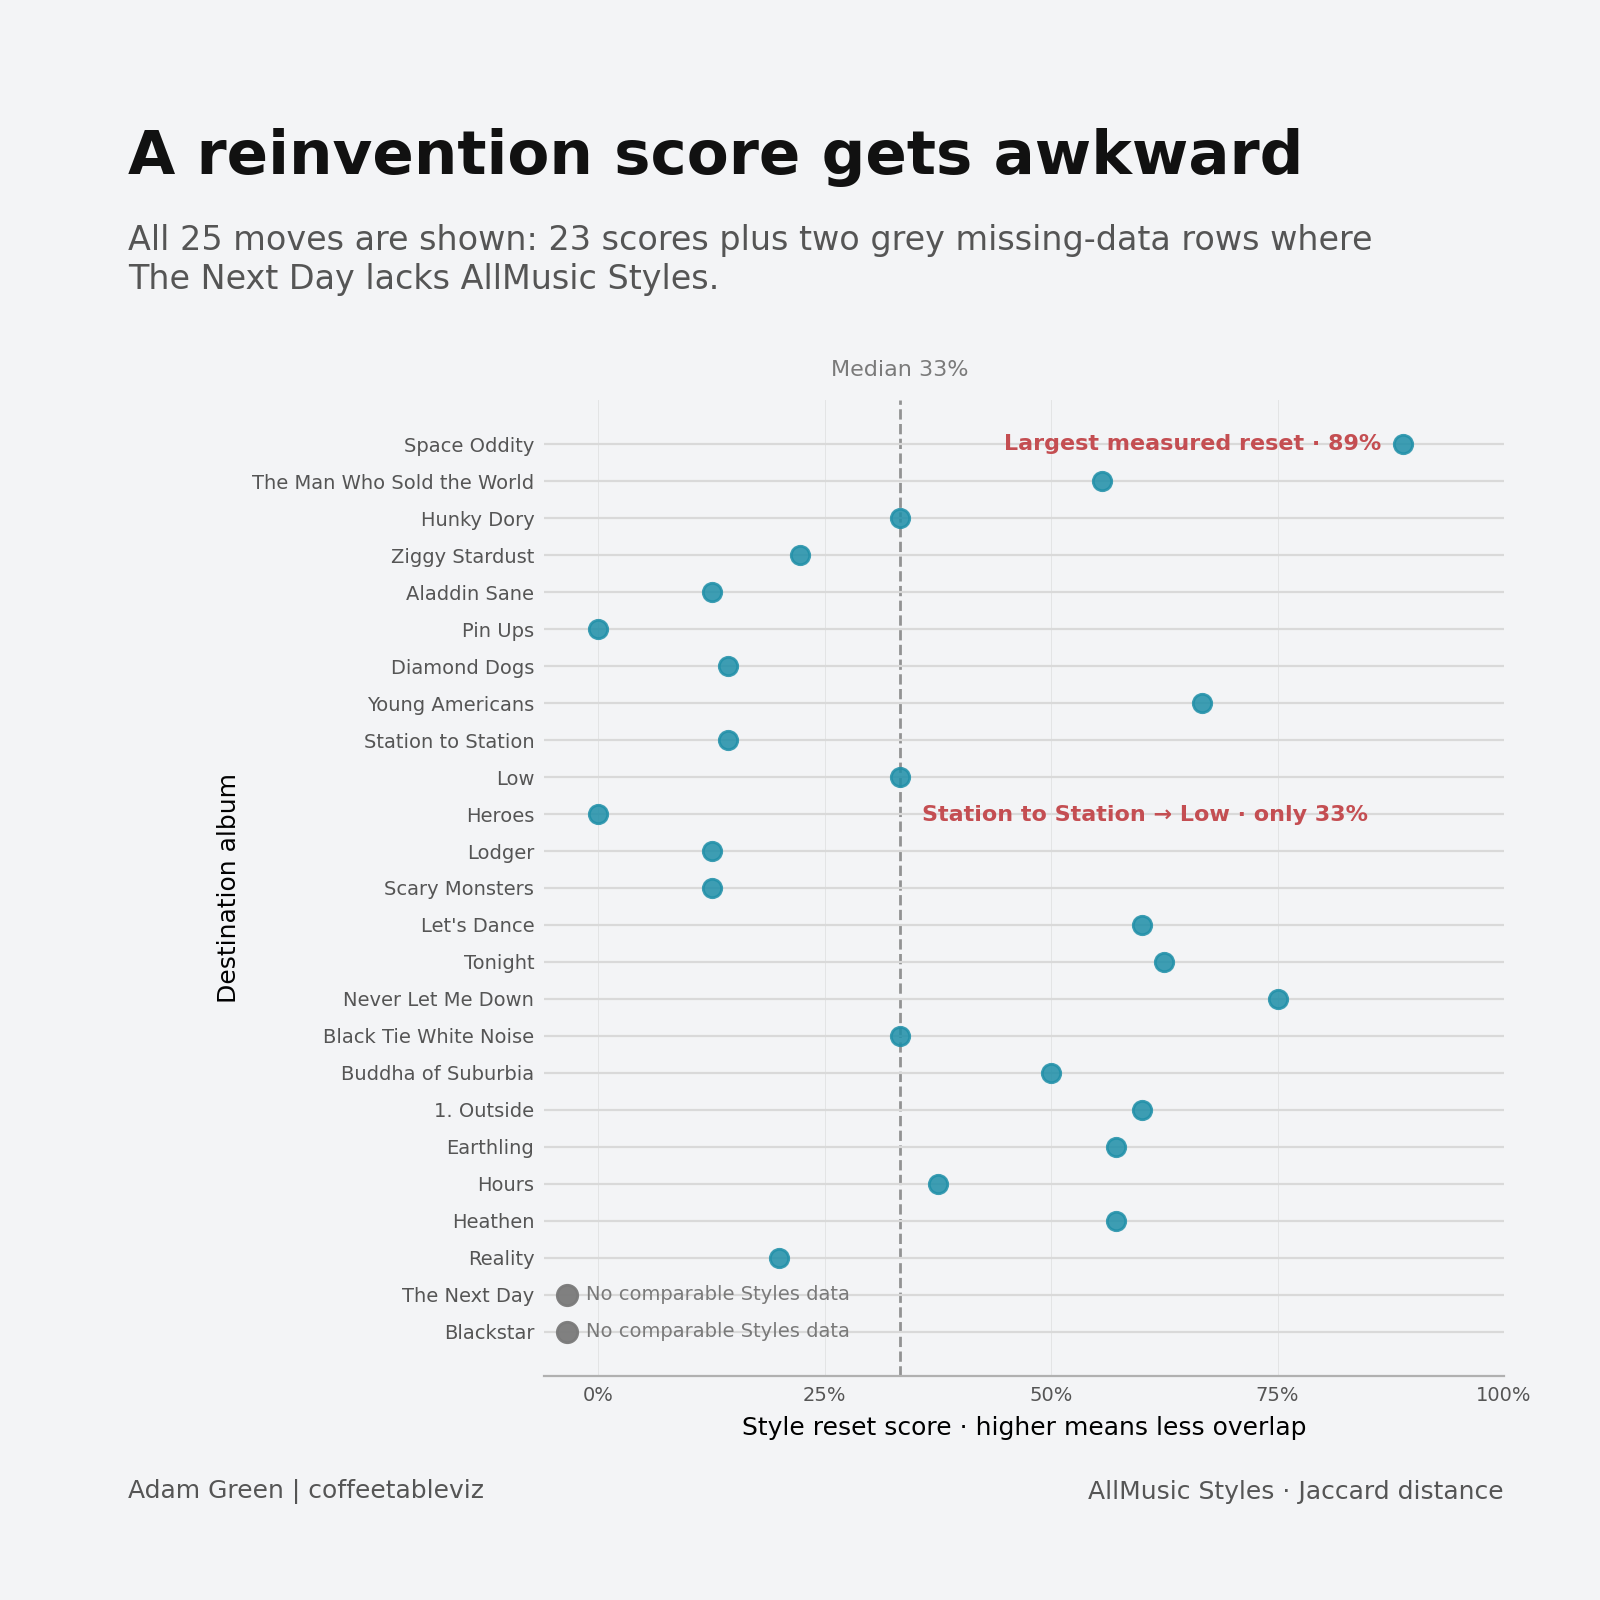
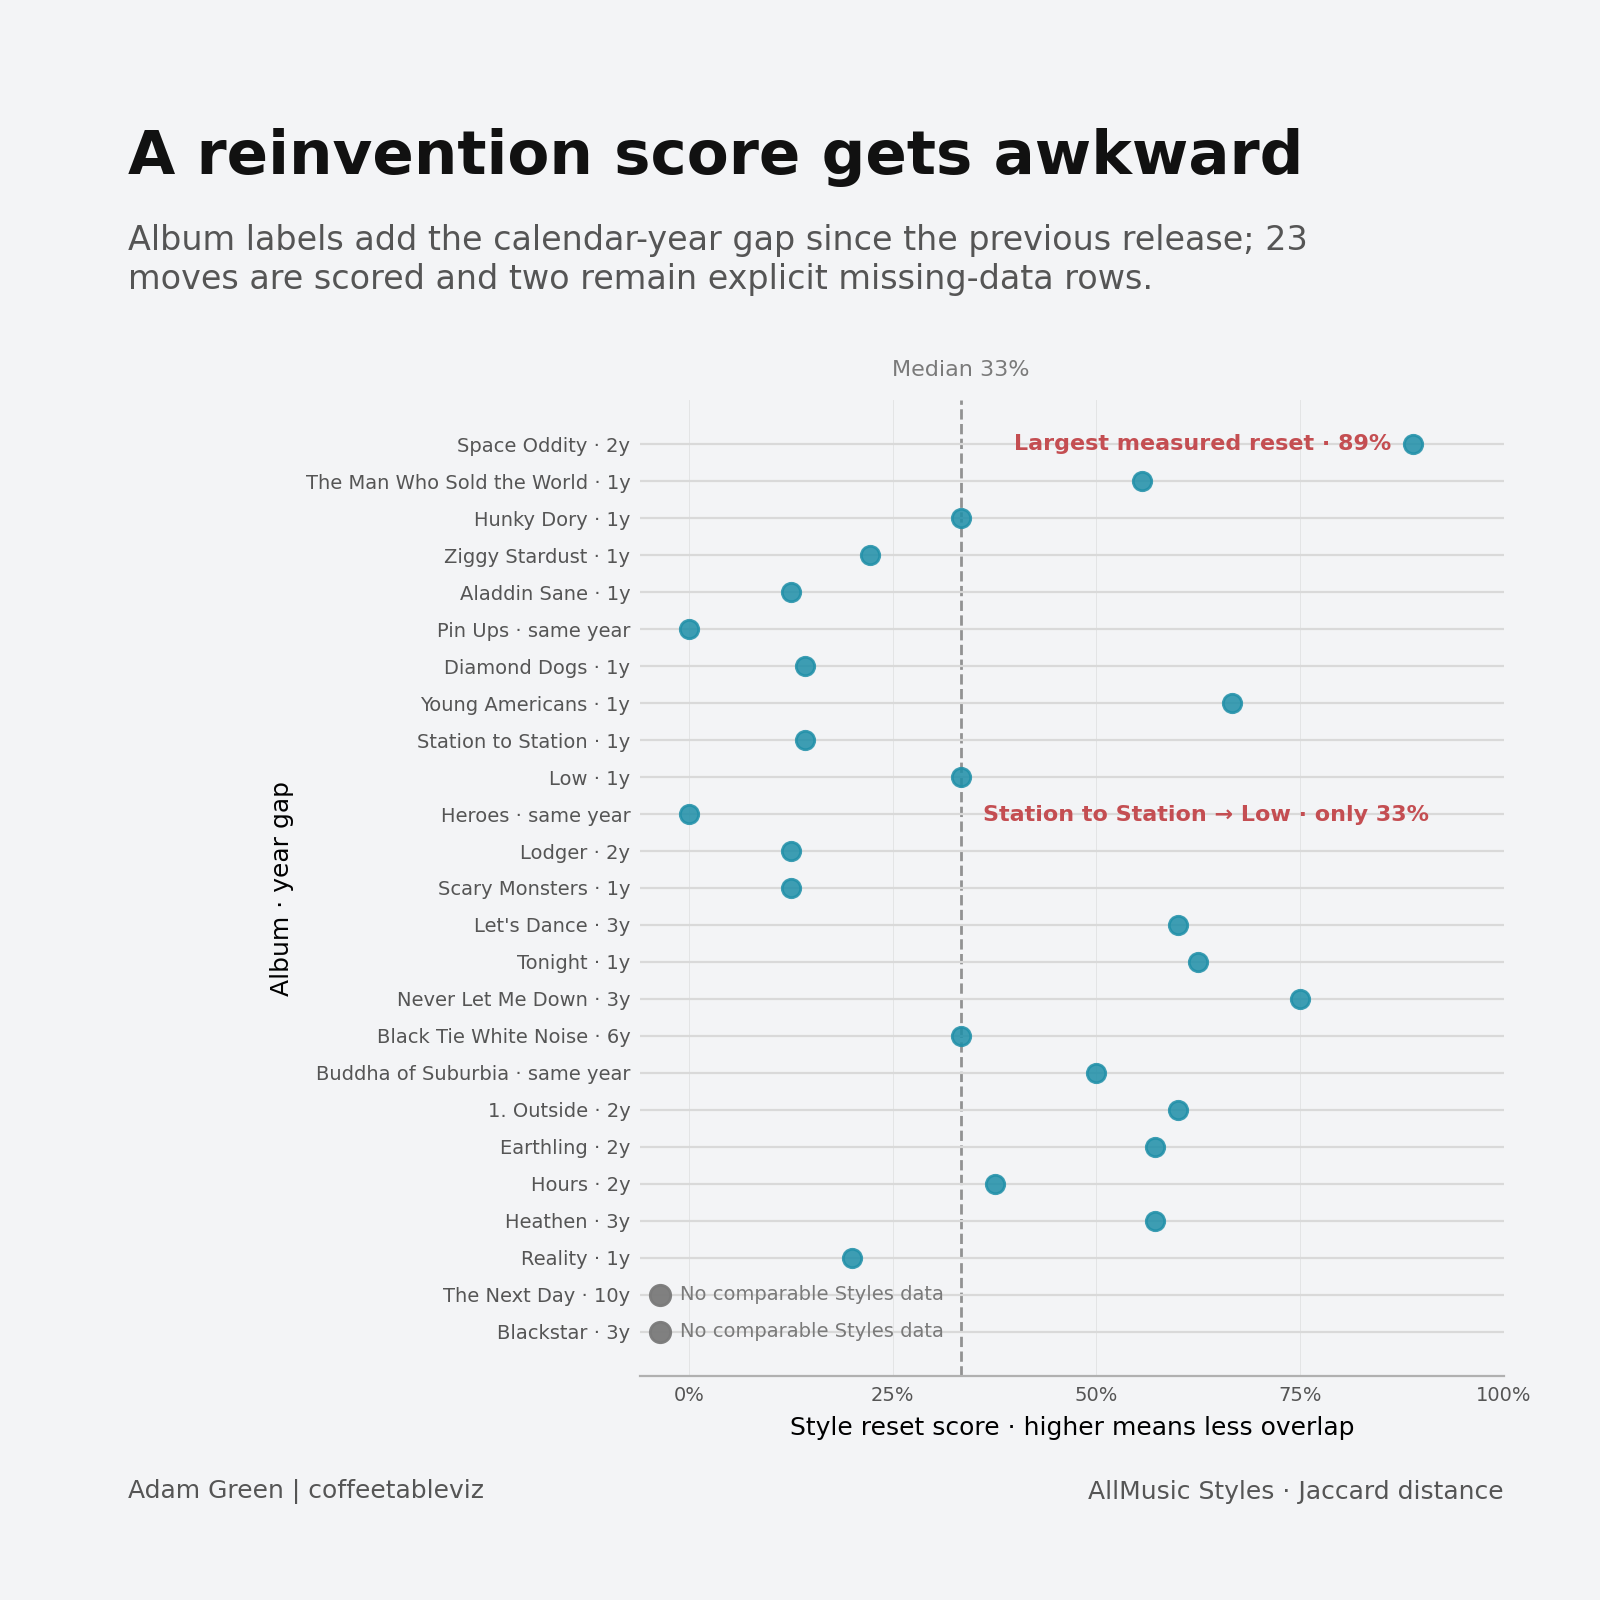
Add rendered Bowie gap-analysis outputs and QA

diff --git a/archive/projects/2026-09-david-bowie-reinvention/project_manifest.md b/archive/projects/2026-09-david-bowie-reinvention/project_manifest.md
@@ -2,9 +2,9 @@
 
 ## Status
 
-- Status: Charts approved; publication package staged; Pages PR build passed; awaiting Adam review before merge
+- Status: Main three-chart package staged; Chart 3 gap refinement and exploratory Chart 4 rendered/QA passed; awaiting Adam final chart-selection review
 - Started: 23 September 2026
-- Last updated: 23 September 2026
+- Last updated: 24 September 2026
 - Owner: Adam Green
 - Repo project slug: `2026-09-david-bowie-reinvention`
 - Working branch: `project/2026-09-david-bowie-reinvention`
@@ -61,6 +61,9 @@ This is a metadata-turnover score, not a creativity/quality/influence score.
 - Art Rock appears on 23 of 25.
 - Experimental Rock appears on 22 of 25.
 - Median measurable adjacent-album reset = 0.3333.
+- Calendar-year gap vs reset score across 23 measurable transitions: Pearson r = 0.3568 (shown as 0.36).
+- The 6-year gap before *Black Tie White Noise* produces a 0.3333 / 33% reset; the highest measured reset, *Space Oddity*, follows a 2-year gap.
+- The 10-year *Reality* → *The Next Day* hiatus cannot be included in that relationship because *The Next Day* has no comparable AllMusic Styles score.
 - Highest reset = 1967 debut -> *Space Oddity* at 0.8889.
 - *Diamond Dogs* -> *Young Americans* = 0.6667.
 - *Scary Monsters* -> *Let's Dance* = 0.6000.
@@ -90,15 +93,18 @@ Full rationale and QA risks: `content/story_plan.md`.
 | `data/artist_album_spans.csv` | Optional wider-cohort output | Deferred |
 | `data/bowie_chart_01_timeline.csv` | Chart 1 derived chronology | Created |
 | `data/bowie_chart_02_style_matrix.csv` | Chart 2 derived album/style matrix | Created |
-| `data/bowie_chart_03_style_reset.csv` | Chart 3 measurable reset rows | Created |
-| `scripts/build_story_datasets.py` | Rebuild all three derived chart datasets | Created |
+| `data/bowie_chart_03_style_reset.csv` | Chart 3 reset rows plus calendar-year gap context | Created |
+| `data/bowie_chart_04_gap_vs_reset.csv` | Chart 4 measurable gap-vs-reset rows | Created |
+| `scripts/build_story_datasets.py` | Rebuild derived Bowie chart datasets | Updated |
 | `config/chart_01_six_decades.py` | Chart 1 locked-renderer config | Created and rendered |
 | `config/chart_02_style_matrix.py` | Chart 2 locked-renderer config | Created and rendered |
-| `config/chart_03_reinvention_score.py` | Chart 3 locked-renderer config | Created and rendered |
+| `config/chart_03_reinvention_score.py` | Chart 3 locked-renderer config with gap labels | Updated and rendered |
+| `config/chart_04_gap_vs_reset.py` | Exploratory Chart 4 scatter config | Created and rendered |
 | `output/bowie_01_six_decades.png` | Final Chart 1 render | QA pass |
 | `output/bowie_02_style_matrix.png` | Final Chart 2 render | QA pass |
-| `output/bowie_03_reinvention_score.png` | Final Chart 3 render | QA pass |
-| `content/qa_report.md` | Data, config, renderer and visual QA record | Created |
+| `output/bowie_03_reinvention_score.png` | Revised Chart 3 render with gap context | QA pass |
+| `output/bowie_04_gap_vs_reset.png` | Exploratory gap-vs-reset scatter | QA pass |
+| `content/qa_report.md` | Data, config, renderer and visual QA record | Updated |
 
 ## Build status
 
@@ -131,3 +137,15 @@ PR #65 remains draft. Final chart QA passed; Adam's visual approval is the remai
 - Feature metaphor: a chameleon stretched across a measuring ruler, expressing the tension between visible reinvention and imperfect measurement.
 - Pages PR build passed in run `35918449198`.
 - PR #65 must remain draft until Adam reviews the exact feature asset and site post.
+
+
+## Gap-analysis extension — 24 September 2026
+
+- Chart 3 now adds the calendar-year gap since the previous album directly to each destination-album label.
+- Same-year album pairs are labelled `same year`.
+- Exploratory Chart 4 asks whether longer release gaps coincide with larger style resets.
+- Across 23 measurable transitions, Pearson `r = 0.3568` (0.36): a modest positive relationship, not a rule.
+- The 6-year wait before *Black Tie White Noise* has only a 33% reset.
+- The 10-year *Reality* → *The Next Day* hiatus is the largest calendar-year gap but cannot be scored and is therefore not plotted in Chart 4.
+- Final extension render/QA: GitHub Actions run `35961245532` — success.
+- Chart 4 remains a spin-off candidate and is not yet included in the live Jekyll article.

diff --git a/archive/projects/2026-09-david-bowie-reinvention/content/qa_report.md b/archive/projects/2026-09-david-bowie-reinvention/content/qa_report.md
@@ -6,7 +6,7 @@ Status: **PASS — ready for Adam visual review**
 
 GitHub Actions render:
 - workflow: `Render archived project`
-- final QA run: `35915620376`
+- final extension QA run: `35961245532`
 - conclusion: success
 - branch: `project/2026-09-david-bowie-reinvention`
 
@@ -112,26 +112,53 @@ Final render:
 
 ### Chart 3 — A reinvention score gets awkward
 
-PASS after final missing-data / axis refinement.
+PASS after release-gap context refinement.
 
-Final QA render:
-- GitHub Actions run `35917018118`
+Final extension QA render:
+- GitHub Actions run `35961245532`
 - conclusion: success
 
 Checks:
 - all 25 destination-album rows are shown;
 - 23 rows carry measured reset scores;
-- *The Next Day* and *Blackstar* are retained as grey missing-data rows;
+- each album label now includes the calendar-year gap since the previous release;
+- same-year releases are labelled `same year` rather than `0y`;
+- *The Next Day · 10y* and *Blackstar · 3y* remain grey missing-data rows;
 - the two missing rows sit in a small non-data gutter left of 0%, so they cannot be read as zero reset scores;
 - x-axis begins at -0.06 internally, while visible labelled ticks remain 0–100%;
-- exact-zero measured dots now have breathing room and are not clipped;
+- exact-zero measured dots retain breathing room and are not clipped;
 - median reference line remains readable;
 - Space Oddity and Low annotations remain inside safe margins;
+- labels remain readable on the locked 8 × 8 canvas;
 - source/footer visible.
+
+### Chart 4 — More time doesn't guarantee a bigger reset
+
+PASS — exploratory spin-off.
+
+Data checks:
+- 23 measurable transitions plotted;
+- x-axis uses calendar-year difference (`to_year - from_year`), not exact elapsed release-date intervals;
+- Pearson correlation independently reproduced as `r = 0.3568`, displayed as 0.36;
+- the 10-year *Reality* → *The Next Day* gap is excluded from the scatter because no comparable reset score exists;
+- *Black Tie White Noise* = 6-year gap / 33% reset;
+- *Space Oddity* = 2-year gap / 89% reset.
+
+Visual checks:
+- final render from run `35961245532` succeeded;
+- 0% reset and same-year observations have axis breathing room;
+- trend line is visible but subordinate to the points;
+- four selected annotations include album names, gap and reset;
+- no annotation or title clipping;
+- source/footer visible.
+
+Editorial check:
+- the chart supports a modest positive association, not a causal claim;
+- the 6-year / 33% counterexample and unscored 10-year hiatus prevent a simplistic “more time means more reinvention” reading.
 
 ## Editorial QA
 
-The three charts form one connected argument:
+The main three charts form one connected argument:
 
 1. longevity: 26 albums across six named decades;
 2. stylistic movement: distinctive labels repeatedly enter and leave;
@@ -139,8 +166,8 @@ The three charts form one connected argument:
 
 The charts do not claim that the reset metric measures creativity, quality, influence or Bowie's intent.
 
+Chart 4 is retained as an exploratory spin-off candidate. It is not yet part of the live-site story.
+
 ## Remaining gate
 
-Adam visual approval.
-
-Do not merge PR #65 or start the live-site publication package until Adam approves the rendered chart set.
+Adam review of the Chart 3 gap-label refinement and the Chart 4 spin-off. The live-site publication package is already staged in draft PR #65; do not merge until Adam confirms the final chart selection.

diff --git a/archive/projects/2026-09-david-bowie-reinvention/content/story_plan.md b/archive/projects/2026-09-david-bowie-reinvention/content/story_plan.md
@@ -86,7 +86,20 @@ The metric also exposes a limitation that is editorially useful: the famous *Sta
 - **Data needed:** `david_bowie_style_transitions.csv`.
 - **Key stat:** 23 measurable transitions; median reset 0.3333. The largest is debut -> *Space Oddity* at 0.8889, while *Station to Station* -> *Low* is only 0.3333.
 - **Why this chart matters:** it gives us the Bowie story and the data-story punchline. Reinvention is visible, but taxonomy is not artistic truth.
+- **Context refinement:** each destination-album label now adds the calendar-year gap since the previous album (for example, `Low · 1y`, `Black Tie White Noise · 6y`, `The Next Day · 10y`). Same-year releases are labelled `same year`.
 - **Potential issue / QA risk:** the two transitions involving *The Next Day* must be shown as explicit missing-data rows rather than zero. They sit in a small grey gutter left of the 0% tick so the full 25-transition chronology remains visible without inventing values.
+
+### Chart 4 — More time doesn't guarantee a bigger reset — spin-off candidate
+
+- **Role:** Exploratory follow-on, not yet part of the main three-chart article.
+- **Story question:** Do longer calendar-year gaps between Bowie studio albums tend to coincide with bigger style resets?
+- **Chart type:** scatter plot with a light linear trend line.
+- **Data needed:** the 23 measurable reset transitions with `year_gap = to_year - from_year`.
+- **Key result:** Pearson `r = 0.3568` (shown as 0.36), a modest positive relationship rather than a strong rule.
+- **Useful counterexample:** *Black Tie White Noise* follows a 6-year calendar gap but has only a 33% reset, while *Space Oddity* has the largest measured reset at 89% after a 2-year gap.
+- **Missing-data caveat:** the catalogue's largest gap, *Reality* (2003) → *The Next Day* (2013), is 10 calendar years but cannot be plotted because *The Next Day* lacks comparable AllMusic Styles.
+- **Interpretation:** time away is useful context, but it does not explain reinvention on its own.
+- **Measurement note:** these are differences between release years, not exact elapsed time between release dates.
 
 ## Recommended story route
 
@@ -96,4 +109,4 @@ The metric also exposes a limitation that is editorially useful: the famous *Sta
 
 Adam approved the editorial route. The three chart datasets/configs have been built and rendered. Chart 3 was subsequently refined so its full 25-transition chronology remains visible, including two explicit missing-data rows around *The Next Day*.
 
-The remaining gate is Adam's visual approval before the publication package and feature artwork are prepared.
+The main three-chart publication package remains staged. Chart 3 has been refined with calendar-year gap labels, and exploratory Chart 4 has been rendered and QA'd as a spin-off candidate. Adam's decision on whether Chart 4 belongs in the published article is the remaining editorial gate for this extension.

diff --git a/site/_posts/2026-09-23-how-do-you-measure-a-chameleon.md b/site/_posts/2026-09-23-how-do-you-measure-a-chameleon.md
@@ -78,8 +78,8 @@ Twenty-six albums create **25 possible album-to-album moves**. The debut itself 
 AllMusic currently exposes comparable Styles data for 25 of the 26 albums. *The Next Day* is the exception, so the two moves touching it cannot be scored consistently. They stay in the chart as grey missing-data rows rather than being quietly turned into zero.
 
 <figure class="story-chart full-bleed">
-  <img src="{{ '/assets/migrated/david-bowie-reinvention/reinvention-score.png' | relative_url }}" alt="Dot plot showing style-reset scores for 25 album-to-album moves in David Bowie's solo studio catalogue. Twenty-three transitions have measured scores; The Next Day and Blackstar are retained as grey missing-data rows because The Next Day lacks comparable AllMusic Styles metadata. Space Oddity has the largest measured reset at 89%, while Low is highlighted at 33%." loading="lazy">
-  <figcaption>Twenty-six albums create 25 transitions. Twenty-three have comparable style data; the two moves involving <em>The Next Day</em> are shown as grey missing-data rows rather than zero scores.</figcaption>
+  <img src="{{ '/assets/migrated/david-bowie-reinvention/reinvention-score.png' | relative_url }}" alt="Dot plot showing style-reset scores for 25 album-to-album moves in David Bowie's solo studio catalogue. Each destination album label includes the calendar-year gap since the previous album. Twenty-three transitions have measured scores; The Next Day at a 10-year gap and Blackstar at a 3-year gap are retained as grey missing-data rows because The Next Day lacks comparable AllMusic Styles metadata. Space Oddity has the largest measured reset at 89% after a 2-year gap, while Low is highlighted at 33% after a 1-year gap." loading="lazy">
+  <figcaption>Twenty-six albums create 25 transitions. Album labels add the calendar-year gap since the previous release; 23 have comparable style data and the two moves involving <em>The Next Day</em> remain grey missing-data rows.</figcaption>
 </figure>
 
 The largest measured reset is the 1967 debut → *Space Oddity* at **89%**.
